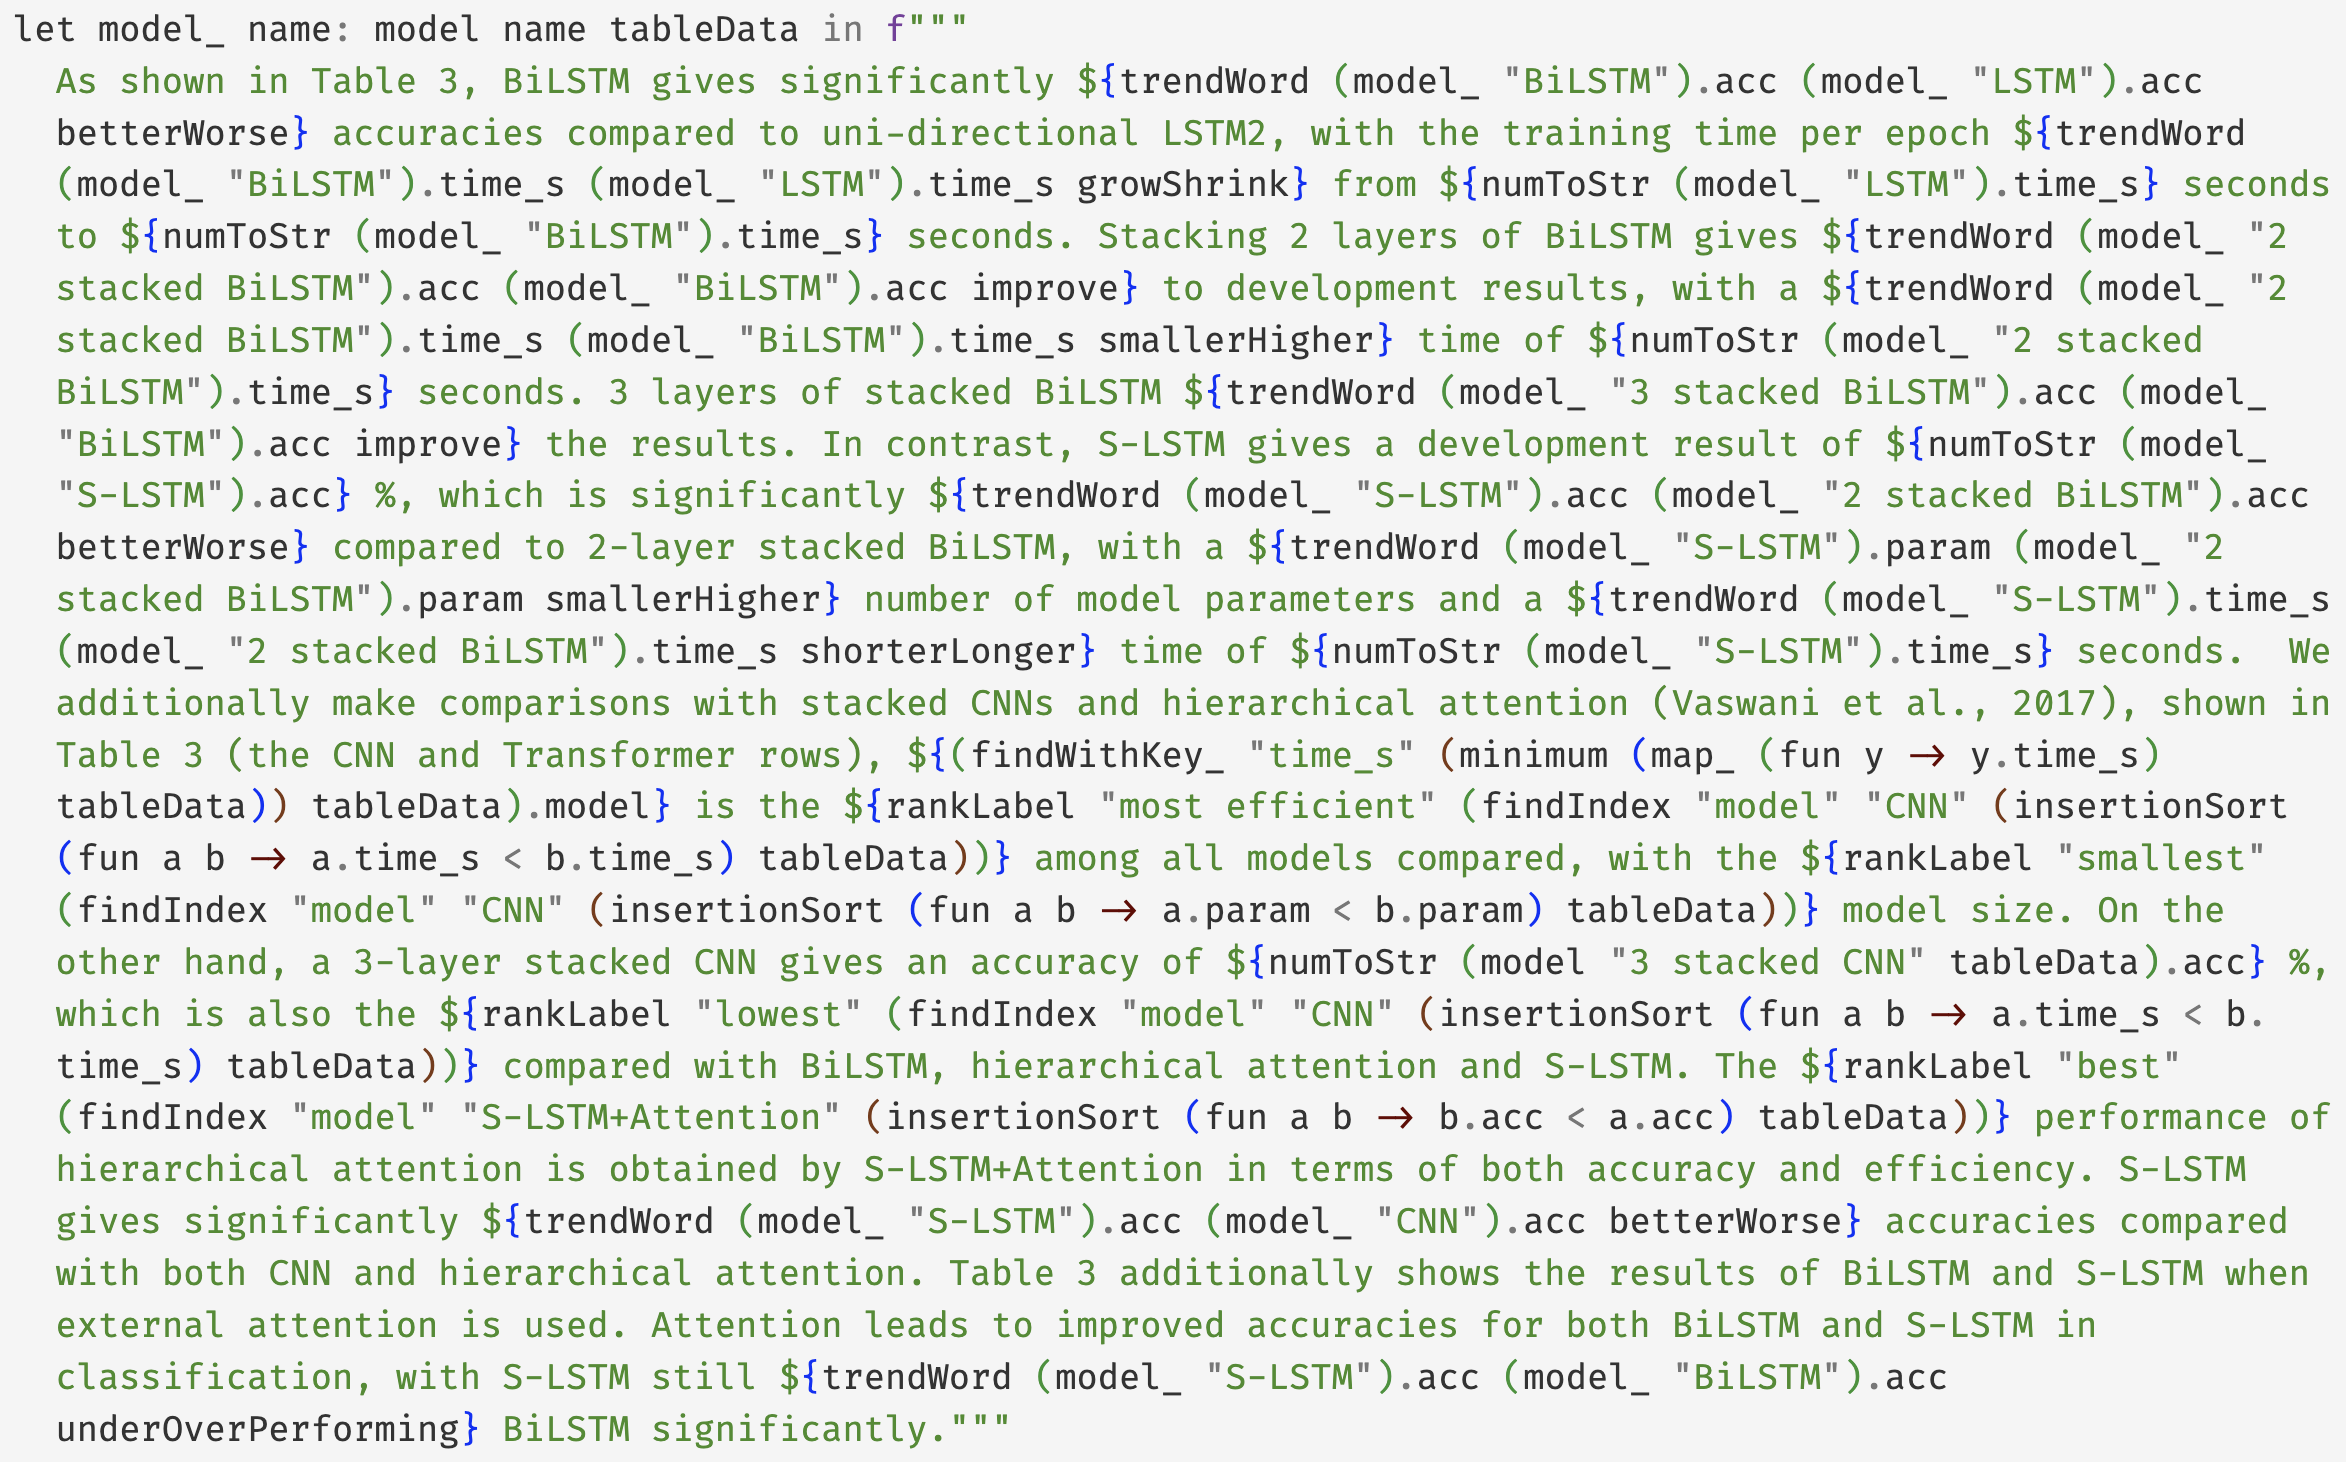
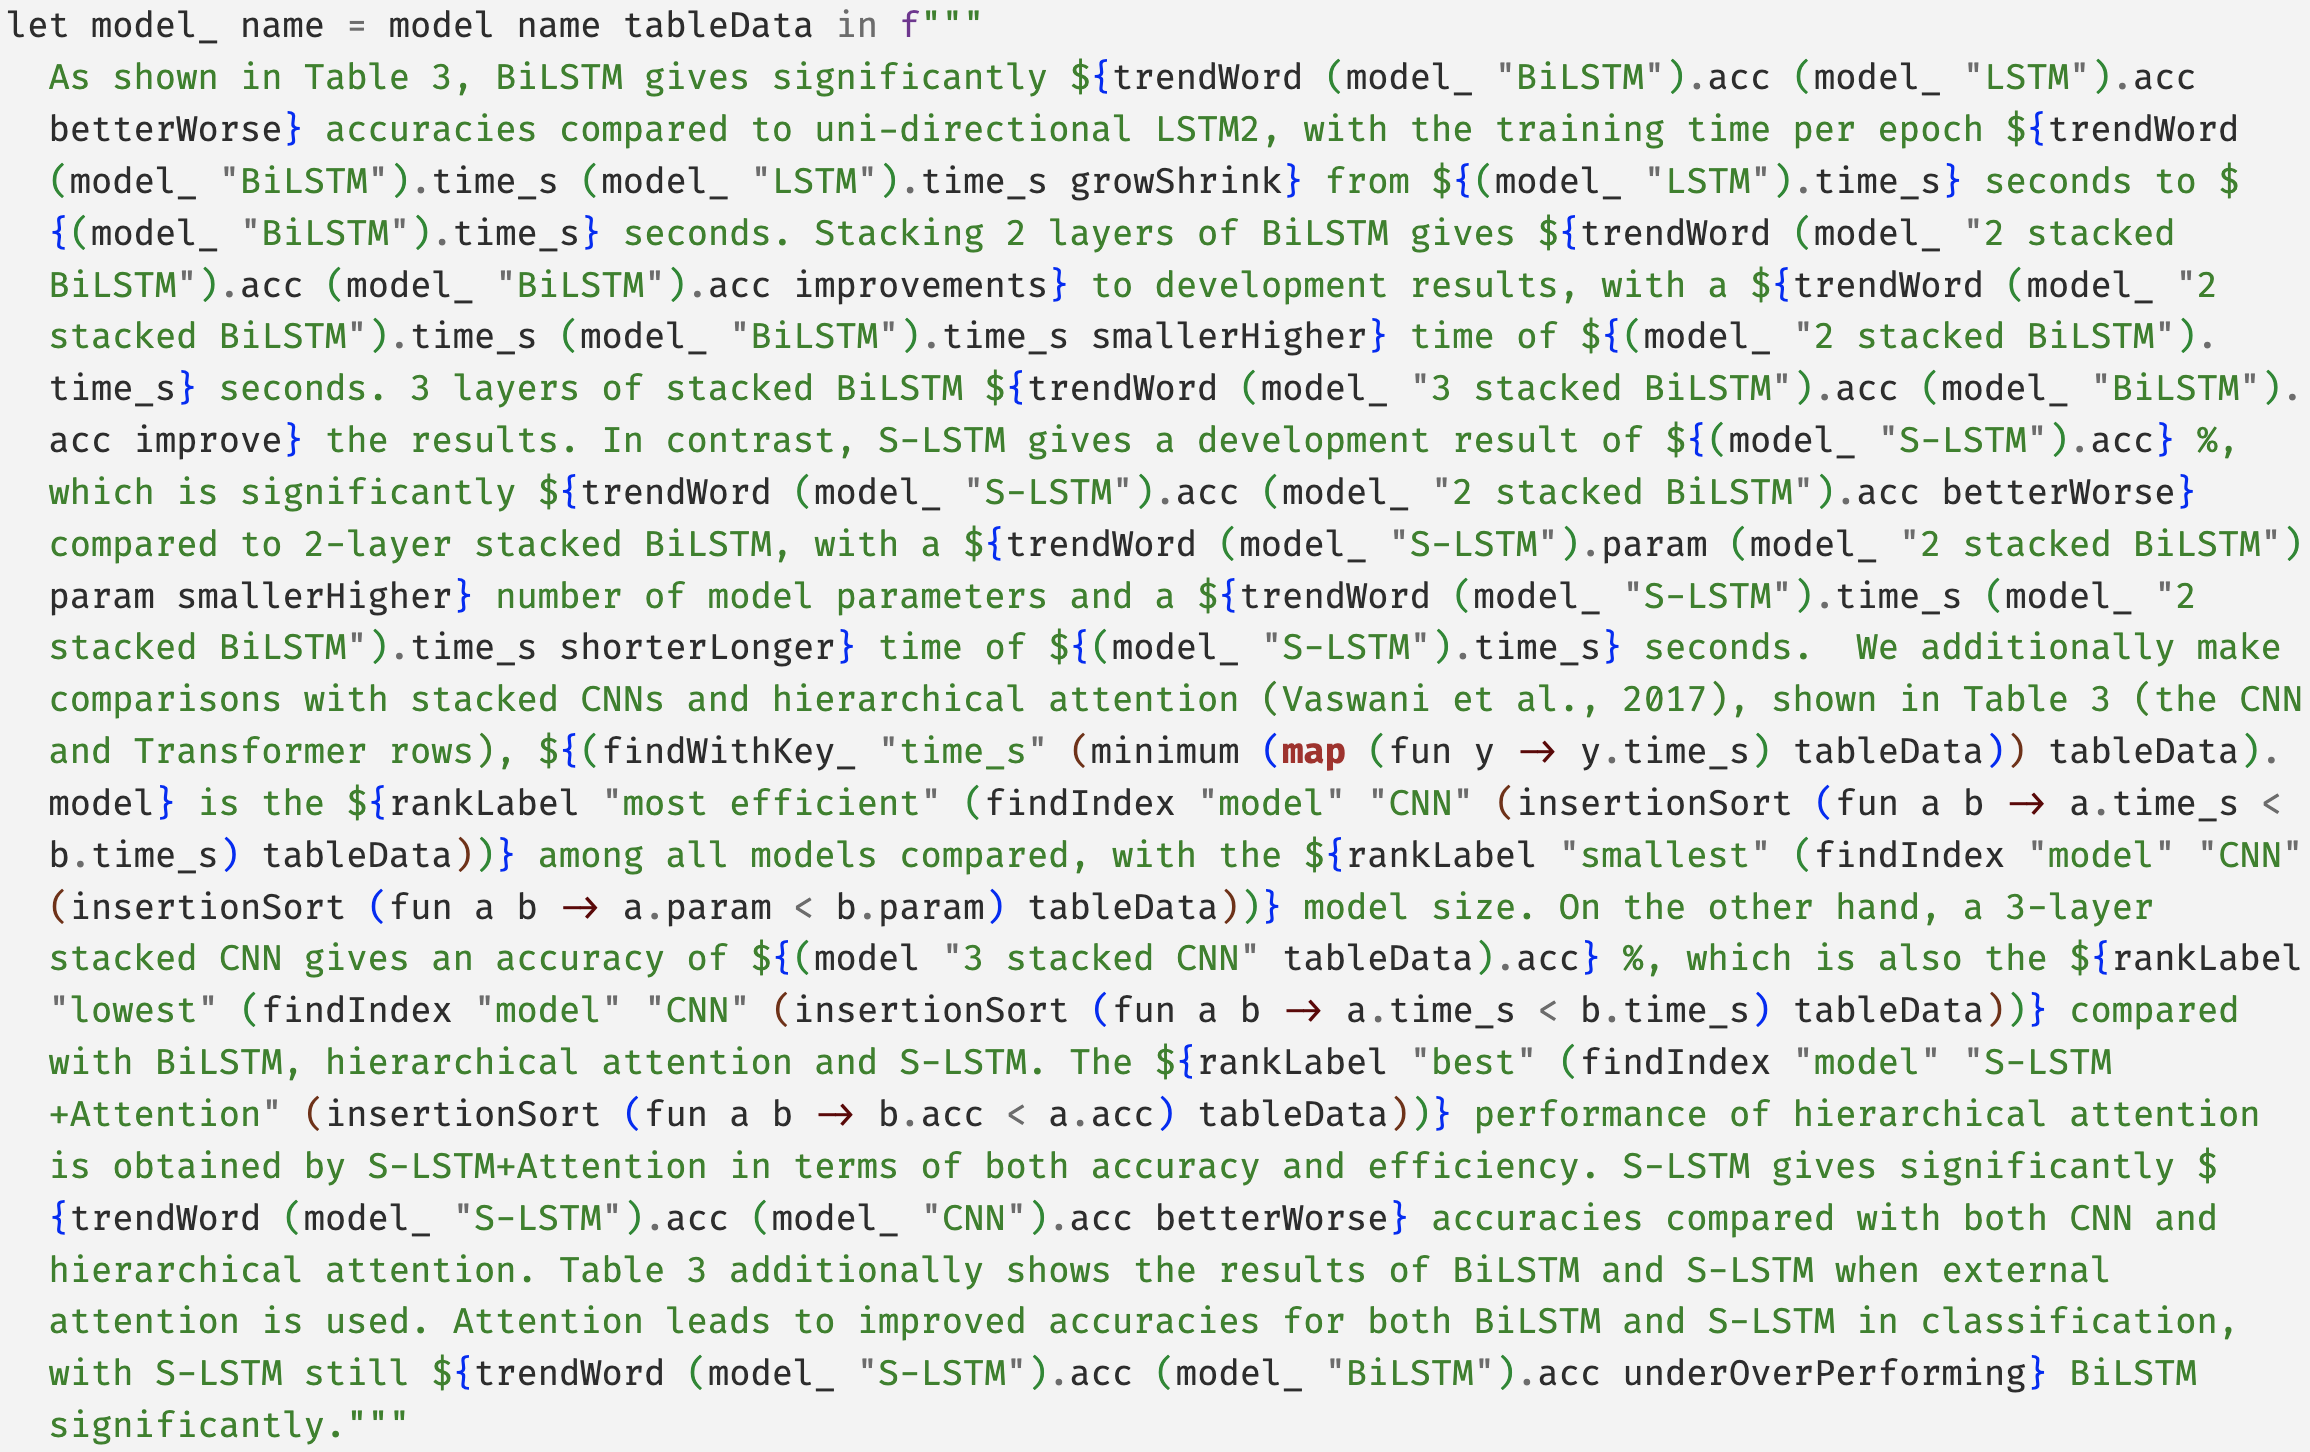
Drop numToStr from Fig 2.

Changed region(s): [[0.0, 0.0, 0.9974, 0.9917]]

diff --git a/paper/sec/introduction.tex b/paper/sec/introduction.tex
@@ -7,11 +7,12 @@ for example in quantity extraction~\citep{bolucu23}, scientific fact-checking~\c
 scientific figure interpretation~\citep{roberts24}.
 
 Recent work on data provenance and data visualisation~\citep{psallidas18smoke,perera22,bond25} attempts to
-address this issue through software infrastructure for ``transparent'' charts and figures. These are visual
-outputs that provide interactive \emph{provenance queries}, user interactions (e.g. mousing over a visual
-element) that allow readers to explore how visual features relate to data. In these approaches the
-interactions are provided automatically via an underlying programming language (either a query language or
-general-purpose language) which tracks dependencies as data flows through a computation.
+address this issue through software infrastructure for ``transparent'' charts and figures. \rpnote{Contrast
+with LLM-based approach -- trusted infrastructure.} These are visual outputs that provide interactive
+\emph{provenance queries}, user interactions (e.g. mousing over a visual element) that allow readers to
+explore how visual features relate to data. In these approaches the interactions are provided automatically
+via an underlying programming language (either a query language or general-purpose language) which tracks
+dependencies as data flows through a computation.
 
 In this paper, we extend interactive provenance queries to the natural language that accompanies the charts
 and figures. We believe this is an important step because in most articles, charts and figures usually only

diff --git a/src/main/java/explorableviz/authoringassistant/Program.java b/src/main/java/explorableviz/authoringassistant/Program.java
@@ -336,14 +336,7 @@ public class Program {
         String sitePath = STR."\{path}\{Path.of(this.testCaseFileName).getParent().getFileName()}-\{Path.of(this.testCaseFileName).getFileName()}";
         Files.createDirectories(Path.of(sitePath));
 
-        /* spec generation */
-//        JSONObject spec = new JSONObject();
         String fluidSrcPath = "../fluid";
-//        spec.put("fluidSrcPath", new JSONArray(STR."[\"\{fluidSrcPath}\"]"));
-//        spec.put("linking", true);
-//        spec.put("query", false);
-//        spec.put("inputs", new JSONArray("[\"tableData\"]"));
-
         final String jsonSpec = STR."""
         const jsonSpec = {
                \"fluidSrcPath\": [\"\{fluidSrcPath}\"],
@@ -353,15 +346,6 @@ public class Program {
            }
         """;
 
-  //      try (FileWriter file = new FileWriter(STR."\{sitePath}/spec.json")) {
-  //          ObjectMapper objectMapper = new ObjectMapper();
-  //          Object jsonObject = objectMapper.readValue(spec.toString(), Object.class);
-  //          file.write(objectMapper.writerWithDefaultPrettyPrinter().writeValueAsString(jsonObject));
-  //          file.write("\n");
-  //          file.flush();
-  //      } catch (IOException e) {
-  //          e.printStackTrace();
-  //      }
         /* html generation */
         String html = new String(Files.readAllBytes(Paths.get(new File(STR."\{path}/template.html").toURI())));
         html = html.replaceAll("##TITLE##", String.valueOf(Path.of(this.testCaseFileName).getParent().getFileName()));
